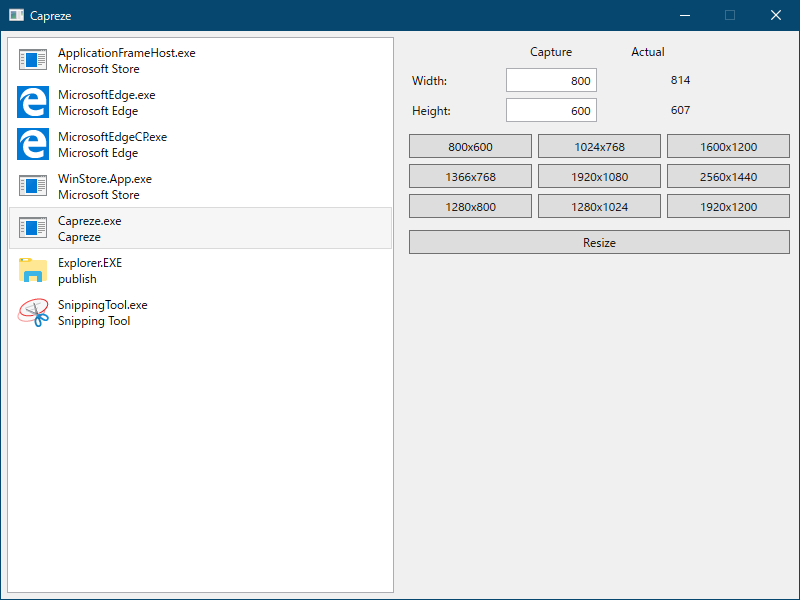
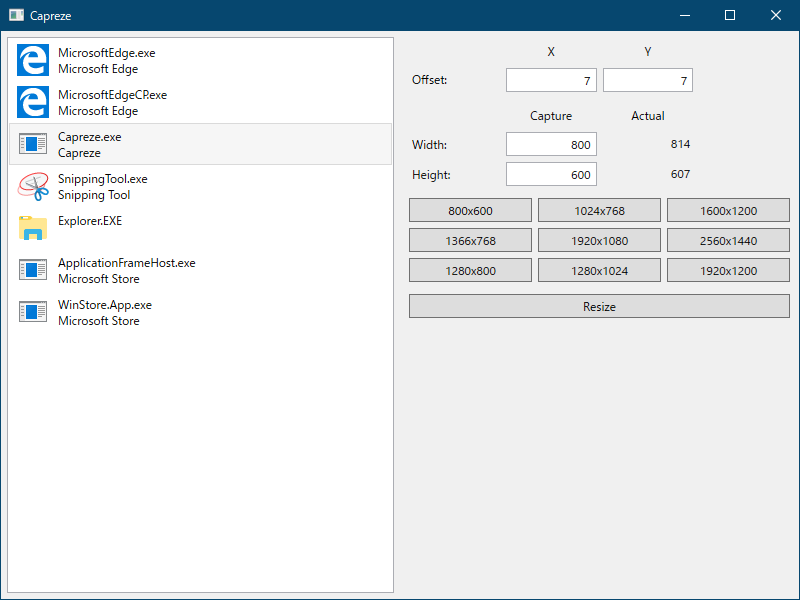
1.1.0 release

diff --git a/source/Views/MainWindow.xaml b/source/Views/MainWindow.xaml
@@ -8,7 +8,7 @@
     xmlns:li="clr-namespace:Karamem0.Capreze.Interactivity"
     mc:Ignorable="d"
     Height="400"
-    ResizeMode="CanMinimize"
+    ResizeMode="CanResize"
     Title="Capreze"
     Width="600">
     <Window.Background>
@@ -102,6 +102,81 @@
                 <Grid.RowDefinitions>
                     <RowDefinition Height="Auto" />
                     <RowDefinition Height="Auto" />
+                </Grid.RowDefinitions>
+                <Label
+                    Grid.Column="1"
+                    Grid.Row="0"
+                    Content="_X"
+                    HorizontalContentAlignment="Center"
+                    Margin="3,3,3,3"
+                    Padding="3,3,3,3"
+                    VerticalContentAlignment="Stretch">
+                    <Label.Target>
+                        <Binding ElementName="OffsetXTextBox" />
+                    </Label.Target>
+                </Label>
+                <Label
+                    Grid.Column="2"
+                    Grid.Row="0"
+                    Content="_Y"
+                    HorizontalContentAlignment="Center"
+                    Margin="3,3,3,3"
+                    Padding="3,3,3,3"
+                    VerticalContentAlignment="Stretch">
+                    <Label.Target>
+                        <Binding ElementName="OffsetYTextBox" />
+                    </Label.Target>
+                </Label>
+                <TextBlock
+                    Grid.Column="0"
+                    Grid.Row="1"
+                    Margin="3,3,3,3"
+                    Padding="3,3,3,3"
+                    Text="Offset:"
+                    TextAlignment="Left" />
+                <TextBox
+                    x:Name="OffsetXTextBox"
+                    Grid.Column="1"
+                    Grid.Row="1"
+                    Margin="3,3,3,3"
+                    Padding="3,3,3,3"
+                    TextAlignment="Right">
+                    <TextBox.Text>
+                        <Binding
+                            Mode="TwoWay" 
+                            Path="OffsetX" />
+                    </TextBox.Text>
+                    <Validation.ErrorTemplate>
+                        <x:Null />
+                    </Validation.ErrorTemplate>
+                </TextBox>
+                <TextBox
+                    x:Name="OffsetYTextBox"
+                    Grid.Column="2"
+                    Grid.Row="1"
+                    Margin="3,3,3,3"
+                    Padding="3,3,3,3"
+                    TextAlignment="Right">
+                    <TextBox.Text>
+                        <Binding
+                            Mode="TwoWay" 
+                            Path="OffsetY" />
+                    </TextBox.Text>
+                    <Validation.ErrorTemplate>
+                        <x:Null />
+                    </Validation.ErrorTemplate>
+                </TextBox>
+            </Grid>
+            <Grid Margin="0,6,0,0">
+                <Grid.ColumnDefinitions>
+                    <ColumnDefinition Width="*" />
+                    <ColumnDefinition Width="*" />
+                    <ColumnDefinition Width="*" />
+                    <ColumnDefinition Width="*" />
+                </Grid.ColumnDefinitions>
+                <Grid.RowDefinitions>
+                    <RowDefinition Height="Auto" />
+                    <RowDefinition Height="Auto" />
                     <RowDefinition Height="Auto" />
                 </Grid.RowDefinitions>
                 <TextBlock
@@ -178,7 +253,7 @@
                     <TextBox.Text>
                         <Binding
                             Mode="TwoWay" 
-                            Path="CaptureHeight"/>
+                            Path="CaptureHeight" />
                     </TextBox.Text>
                     <Validation.ErrorTemplate>
                         <x:Null />
@@ -214,7 +289,7 @@
                     Padding="3,3,3,3"
                     ToolTip="800x600 (SVGA, 4:3)">
                     <Button.Command>
-                        <Binding Path="ResizeCommand" />
+                        <Binding Path="PresetCommand" />
                     </Button.Command>
                     <Button.CommandParameter>
                         <Size Height="600" Width="800" />
@@ -228,7 +303,7 @@
                     Padding="3,3,3,3"
                     ToolTip="1024x768 (XGA, 4:3)">
                     <Button.Command>
-                        <Binding Path="ResizeCommand" />
+                        <Binding Path="PresetCommand" />
                     </Button.Command>
                     <Button.CommandParameter>
                         <Size Height="768" Width="1024" />
@@ -242,7 +317,7 @@
                     Padding="3,3,3,3"
                     ToolTip="1600x1200 (UXGA, 4:3)">
                     <Button.Command>
-                        <Binding Path="ResizeCommand" />
+                        <Binding Path="PresetCommand" />
                     </Button.Command>
                     <Button.CommandParameter>
                         <Size Height="1200" Width="1600" />
@@ -256,7 +331,7 @@
                     Padding="3,3,3,3"
                     ToolTip="1366x768 (HD, 16:9)">
                     <Button.Command>
-                        <Binding Path="ResizeCommand" />
+                        <Binding Path="PresetCommand" />
                     </Button.Command>
                     <Button.CommandParameter>
                         <Size Height="768" Width="1366" />
@@ -270,7 +345,7 @@
                     Padding="3,3,3,3"
                     ToolTip="1920x1080 (FHD, 16:9)">
                     <Button.Command>
-                        <Binding Path="ResizeCommand" />
+                        <Binding Path="PresetCommand" />
                     </Button.Command>
                     <Button.CommandParameter>
                         <Size Height="1080" Width="1920" />
@@ -284,7 +359,7 @@
                     Padding="3,3,3,3"
                     ToolTip="2560x1440 (WQHD, 16:9)">
                     <Button.Command>
-                        <Binding Path="ResizeCommand" />
+                        <Binding Path="PresetCommand" />
                     </Button.Command>
                     <Button.CommandParameter>
                         <Size Height="1440" Width="2560" />
@@ -298,7 +373,7 @@
                     Padding="3,3,3,3"
                     ToolTip="1280x800 (WXGA, 16:10)">
                     <Button.Command>
-                        <Binding Path="ResizeCommand" />
+                        <Binding Path="PresetCommand" />
                     </Button.Command>
                     <Button.CommandParameter>
                         <Size Height="800" Width="1280" />
@@ -312,7 +387,7 @@
                     Padding="3,3,3,3"
                     ToolTip="1280x1024 (SXGA, 5:4)">
                     <Button.Command>
-                        <Binding Path="ResizeCommand" />
+                        <Binding Path="PresetCommand" />
                     </Button.Command>
                     <Button.CommandParameter>
                         <Size Height="1024" Width="1280" />
@@ -326,7 +401,7 @@
                     Padding="3,3,3,3"
                     ToolTip="1920x1200 (WUXGA, 16:10)">
                     <Button.Command>
-                        <Binding Path="ResizeCommand" />
+                        <Binding Path="PresetCommand" />
                     </Button.Command>
                     <Button.CommandParameter>
                         <Size Height="1200" Width="1920" />
@@ -339,7 +414,7 @@
                     Margin="3,3,3,3"
                     Padding="3,3,3,3">
                     <Button.Command>
-                        <Binding Path="ExecuteCommand" />
+                        <Binding Path="ResizeCommand" />
                     </Button.Command>
                 </Button>
             </Grid>

diff --git a/source/ViewModels/MainViewModel.cs b/source/ViewModels/MainViewModel.cs
@@ -35,6 +35,10 @@ namespace Karamem0.Capreze.ViewModels
 
         private int captureWidth;
 
+        private int offsetX;
+
+        private int offsetY;
+
         public MainViewModel()
         {
             this.WindowInformations = new ObservableCollection<WindowInformation>();
@@ -97,6 +101,32 @@ namespace Karamem0.Capreze.ViewModels
             }
         }
 
+        public int OffsetX
+        {
+            get { return this.offsetX; }
+            set
+            {
+                if (this.offsetX != value)
+                {
+                    this.offsetX = value;
+                    this.RaisePropertyChanged(nameof(this.OffsetX));
+                }
+            }
+        }
+
+        public int OffsetY
+        {
+            get { return this.offsetY; }
+            set
+            {
+                if (this.offsetY != value)
+                {
+                    this.offsetY = value;
+                    this.RaisePropertyChanged(nameof(this.OffsetY));
+                }
+            }
+        }
+
         private WindowInformation selectedInformation;
 
         public WindowInformation SelectedInformation
@@ -137,14 +167,14 @@ namespace Karamem0.Capreze.ViewModels
                     }
                 });
 
-        public ICommand ResizeCommand =>
+        public ICommand PresetCommand =>
             new DelegateCommand<Size>(parameter =>
                 {
                     this.CaptureHeight = (int)parameter.Height;
                     this.CaptureWidth = (int)parameter.Width;
                 });
 
-        public ICommand ExecuteCommand =>
+        public ICommand ResizeCommand =>
             new DelegateCommand(async () =>
                 {
                     if (this.SelectedInformation != null)
@@ -156,29 +186,33 @@ namespace Karamem0.Capreze.ViewModels
                     }
                 });
 
-        public override void OnLoaded()
+        public override async void OnLoaded()
         {
             this.LoadCommand.Execute(null);
+            this.OffsetX = await this.windowService.GetOffsetXAsync();
+            this.OffsetY = await this.windowService.GetOffsetYAsync();
         }
 
         public override void OnUnloaded()
         {
         }
 
-        protected override async void OnPropertyChanged(PropertyChangedEventArgs e)
+        protected override void OnPropertyChanged(PropertyChangedEventArgs e)
         {
             base.OnPropertyChanged(e);
-            if (e.PropertyName == nameof(this.CaptureHeight))
+            if (e.PropertyName == nameof(this.CaptureHeight) ||
+                e.PropertyName == nameof(this.OffsetY))
             {
-                var offset = await this.windowService.GetOffisetYAsync();
-                var height = this.CaptureHeight + offset;
-                this.ActualHeight = height;
+                var size = this.CaptureHeight;
+                var offset = this.OffsetY;
+                this.ActualHeight = size + offset;
             }
-            if (e.PropertyName == nameof(this.CaptureWidth))
+            if (e.PropertyName == nameof(this.CaptureWidth) ||
+                e.PropertyName == nameof(this.OffsetX))
             {
-                var offset = await this.windowService.GetOffisetXAsync();
-                var width = this.CaptureWidth + offset * 2;
-                this.ActualWidth = width;
+                var size = this.CaptureWidth;
+                var offset = this.OffsetX * 2;
+                this.ActualWidth = size + offset;
             }
         }
 

diff --git a/source/Services/WindowService.cs b/source/Services/WindowService.cs
@@ -23,9 +23,9 @@ namespace Karamem0.Capreze.Services
     public interface IWindowService
     {
 
-        Task<int> GetOffisetXAsync();
+        Task<int> GetOffsetXAsync();
 
-        Task<int> GetOffisetYAsync();
+        Task<int> GetOffsetYAsync();
 
         Task<IEnumerable<WindowInformation>> GetWindowInformationsAsync();
 
@@ -40,7 +40,7 @@ namespace Karamem0.Capreze.Services
         {
         }
 
-        public async Task<int> GetOffisetXAsync()
+        public async Task<int> GetOffsetXAsync()
         {
             return await Task.Run(() =>
             {
@@ -50,7 +50,7 @@ namespace Karamem0.Capreze.Services
             });
         }
 
-        public async Task<int> GetOffisetYAsync()
+        public async Task<int> GetOffsetYAsync()
         {
             return await Task.Run(() =>
             {

diff --git a/source/Interactivity/BitmapSourceConverter.cs b/source/Interactivity/BitmapSourceConverter.cs
@@ -6,12 +6,10 @@
 // https://github.com/karamem0/Capreze/blob/master/LICENSE
 //
 
-using Karamem0.Capreze.Runtime.InteropServices;
 using System;
 using System.Collections.Generic;
 using System.Drawing;
 using System.Globalization;
-using System.IO;
 using System.Linq;
 using System.Text;
 using System.Threading.Tasks;

diff --git a/README.md b/README.md
@@ -2,6 +2,7 @@
 
 Window Resizing Tool for Capture
 
+[![Build status](https://ci.appveyor.com/api/projects/status/15s539p3yeafj991?svg=true)](https://ci.appveyor.com/project/karamem0/capreze)
 [![License](https://img.shields.io/github/license/karamem0/Capreze.svg)](https://github.com/karamem0/Capreze/blob/master/LICENSE)
 
 ## Screenshot
